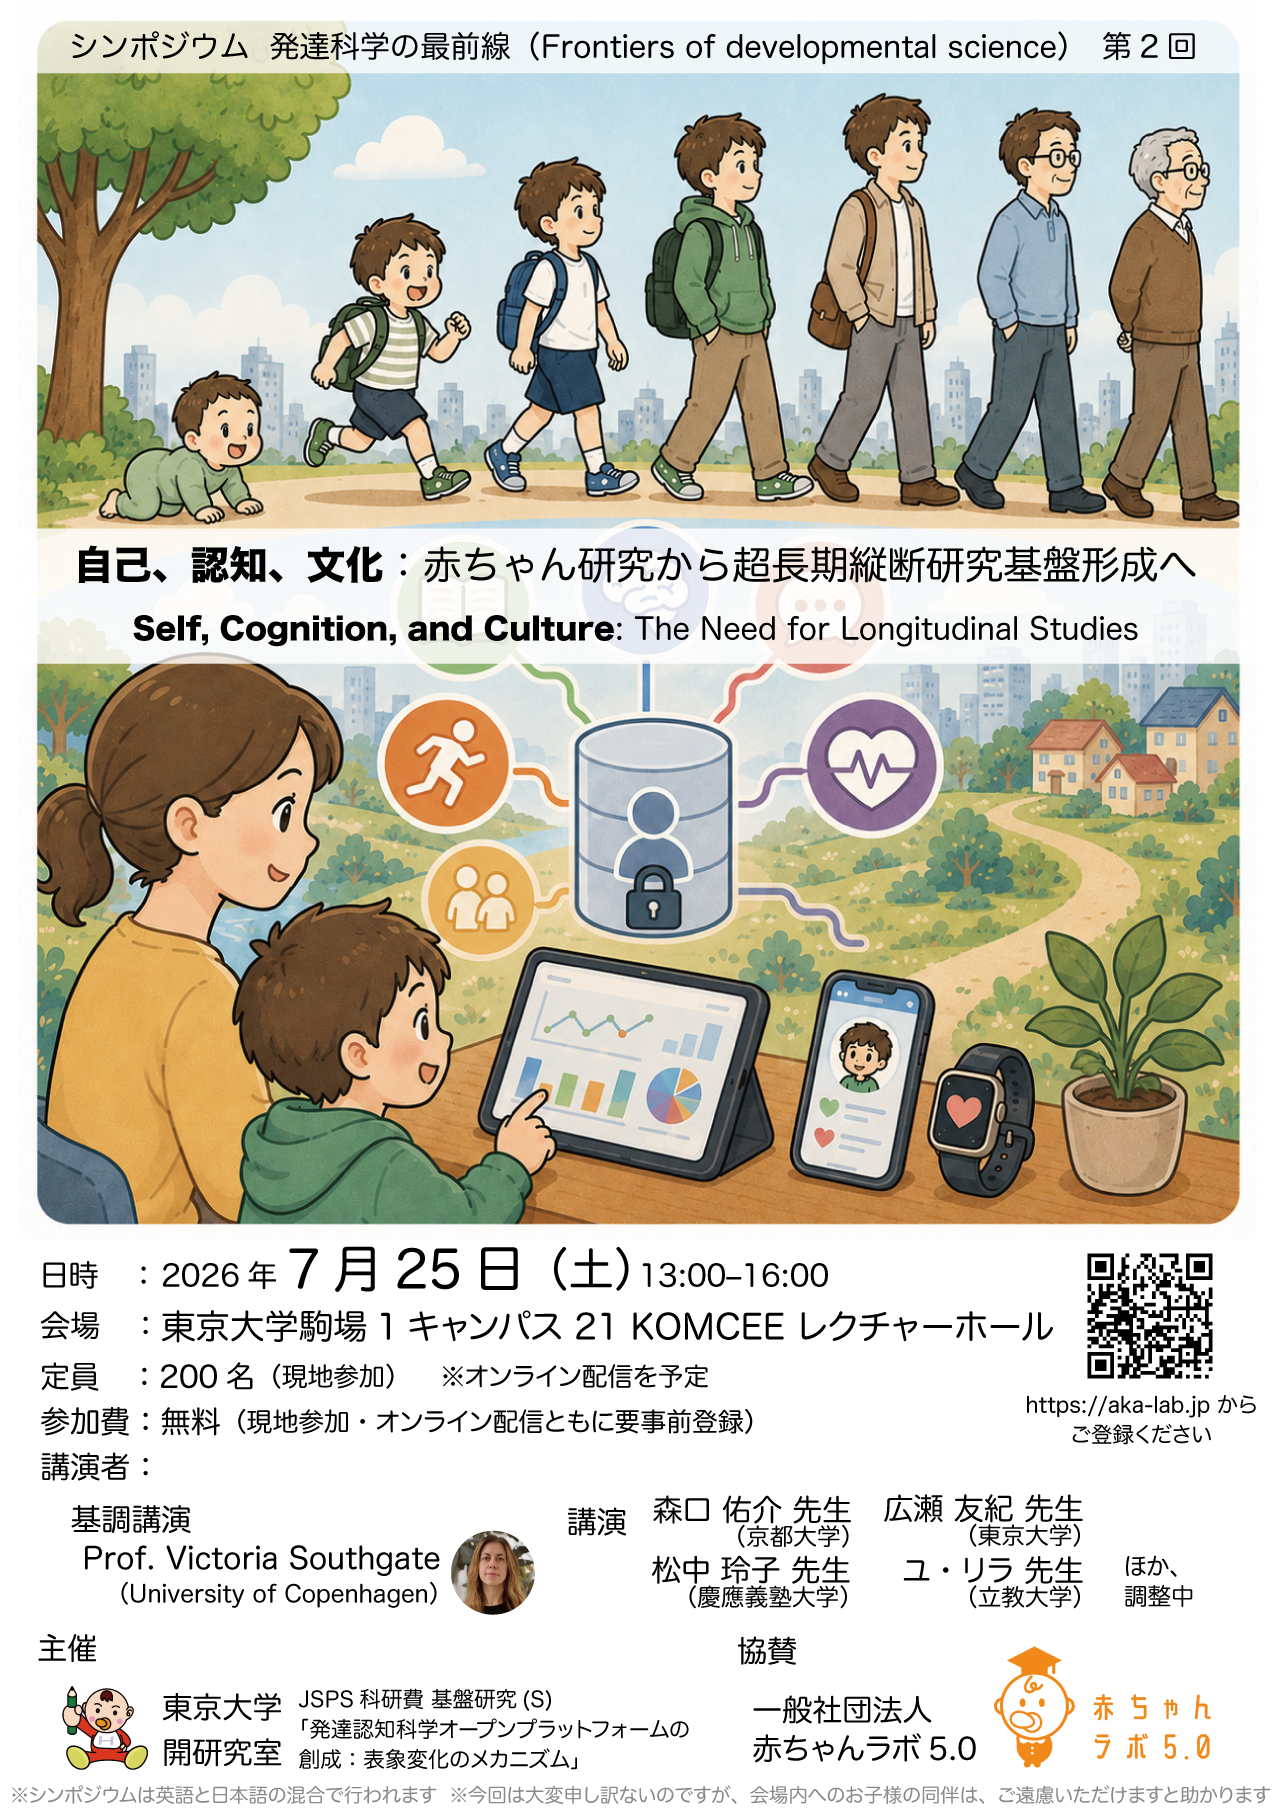
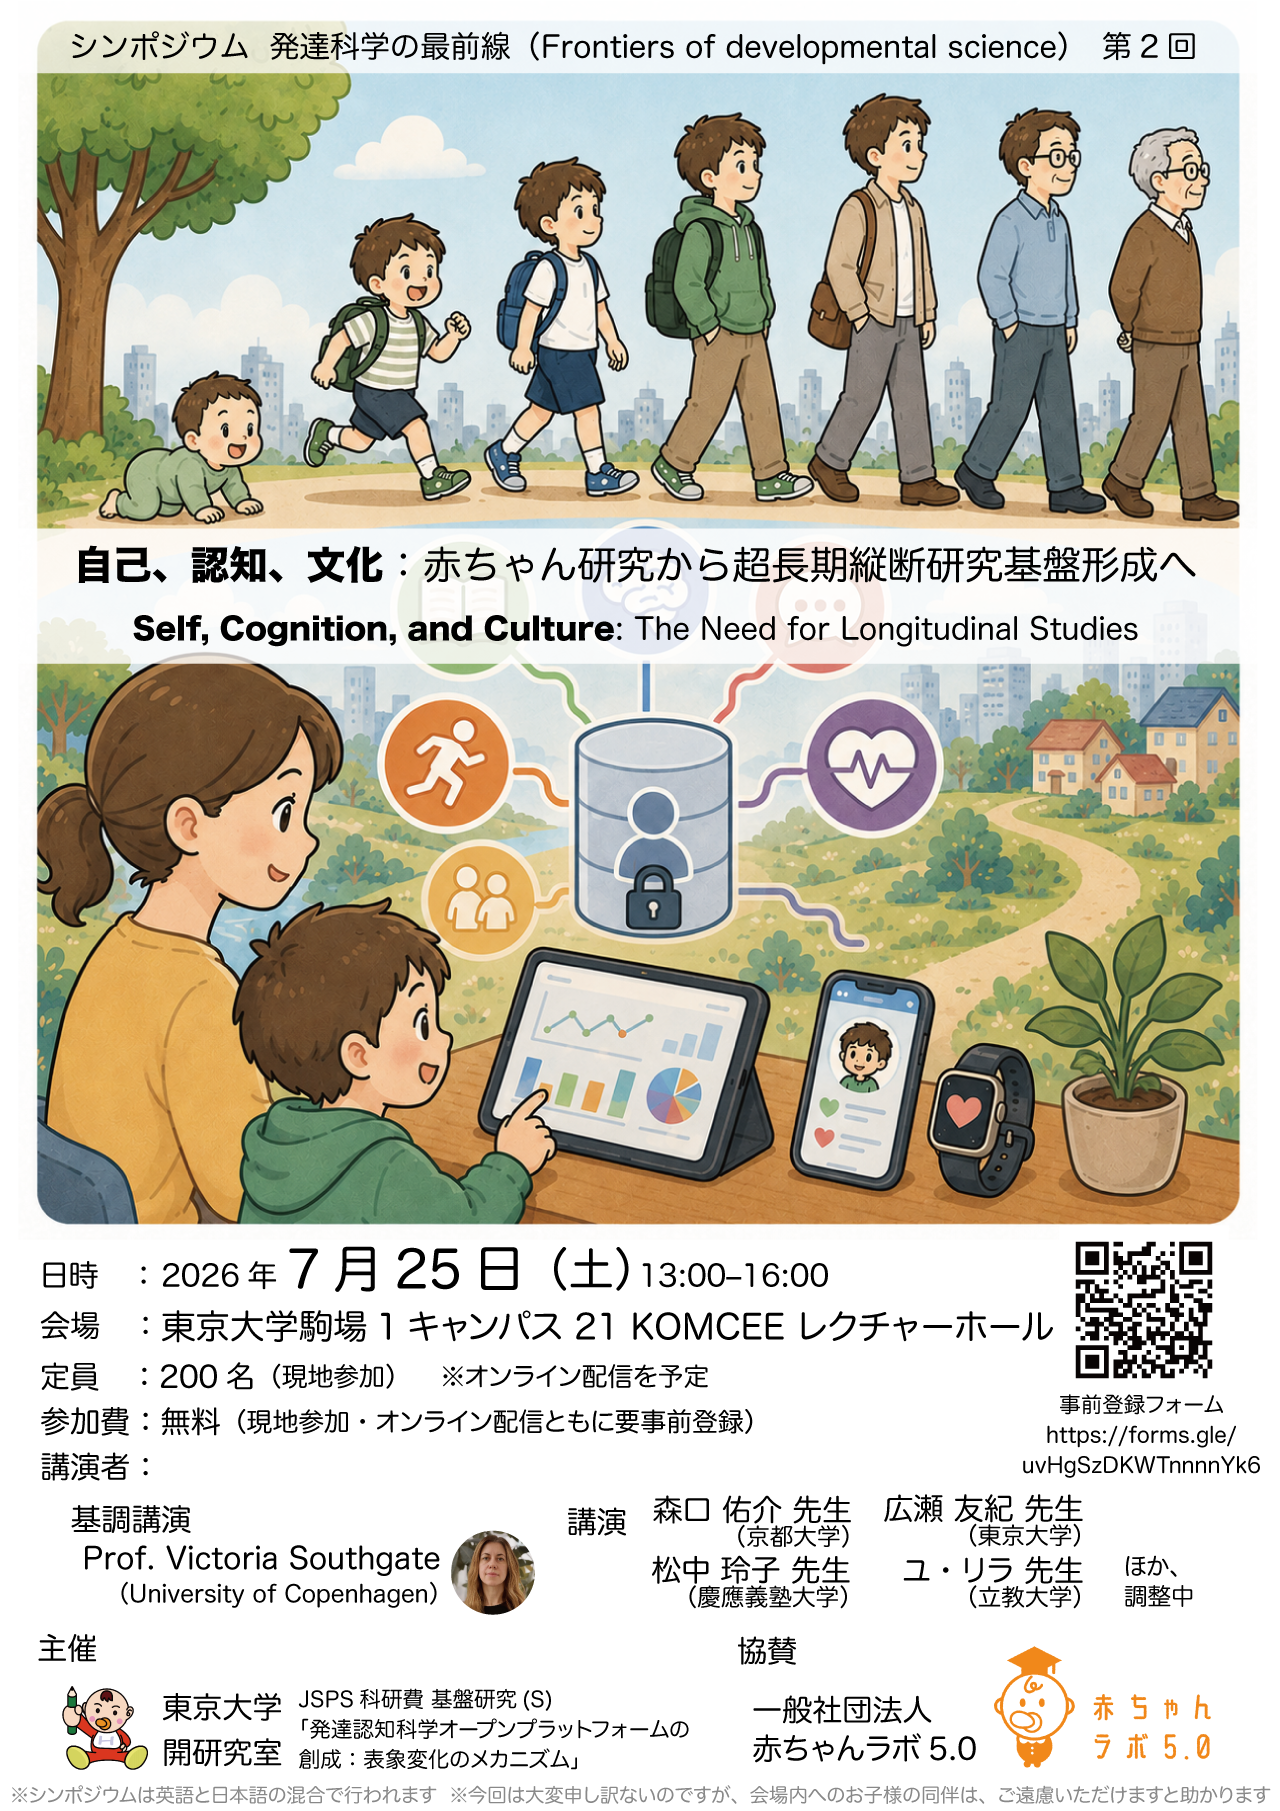
参加登録フォームのURLを併記し、チラシ画像を更新
- 参加登録行に Googleフォームの生URLを併記（リンク視認性向上）
- チラシを最新版（登壇者・主催・協賛入り）に差し替え

Changed region(s): [[0.8125, 0.6803, 0.9688, 0.8349]]

diff --git a/_posts/2026-06-25-symposium-2026.md b/_posts/2026-06-25-symposium-2026.md
@@ -12,7 +12,7 @@ date: 2026-06-25
 **会場**：東京大学駒場1キャンパス 21 KOMCEE レクチャーホール（[学内Map](https://www.u-tokyo.ac.jp/campusmap/cam02_01_55_j.html)）<br>
 **定員**：200名（現地参加）※オンライン配信を予定<br>
 **参加費**：無料<br>
-**参加登録**：現地参加・オンライン配信ともに[Googleフォーム](https://forms.gle/uvHgSzDKWTnnnnYk6)から事前登録をお願いいたします（要事前登録）<br>
+**参加登録**：現地参加・オンライン配信ともにGoogleフォームから事前登録をお願いいたします（要事前登録、URL: <a href="https://forms.gle/uvHgSzDKWTnnnnYk6">https://forms.gle/uvHgSzDKWTnnnnYk6</a>）<br>
 **協賛**：<br>
 <div class="event-detail">
 一般社団法人 赤ちゃんラボ5.0<br>
